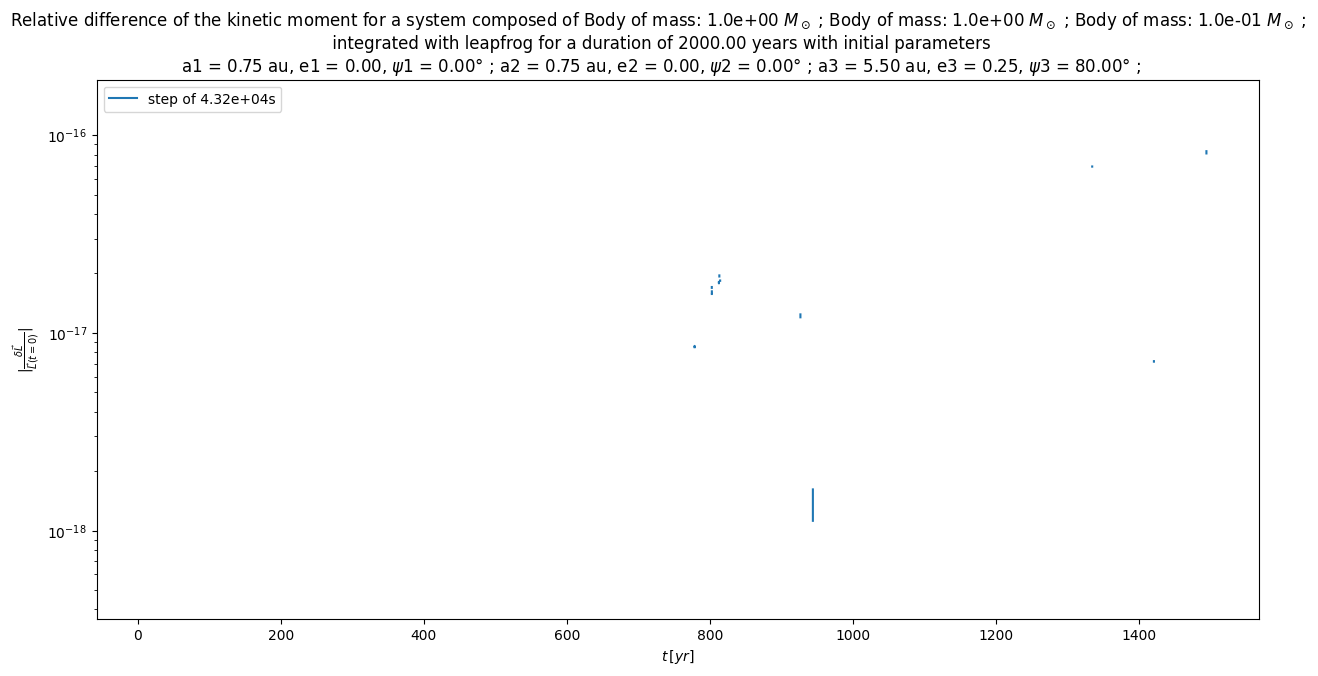
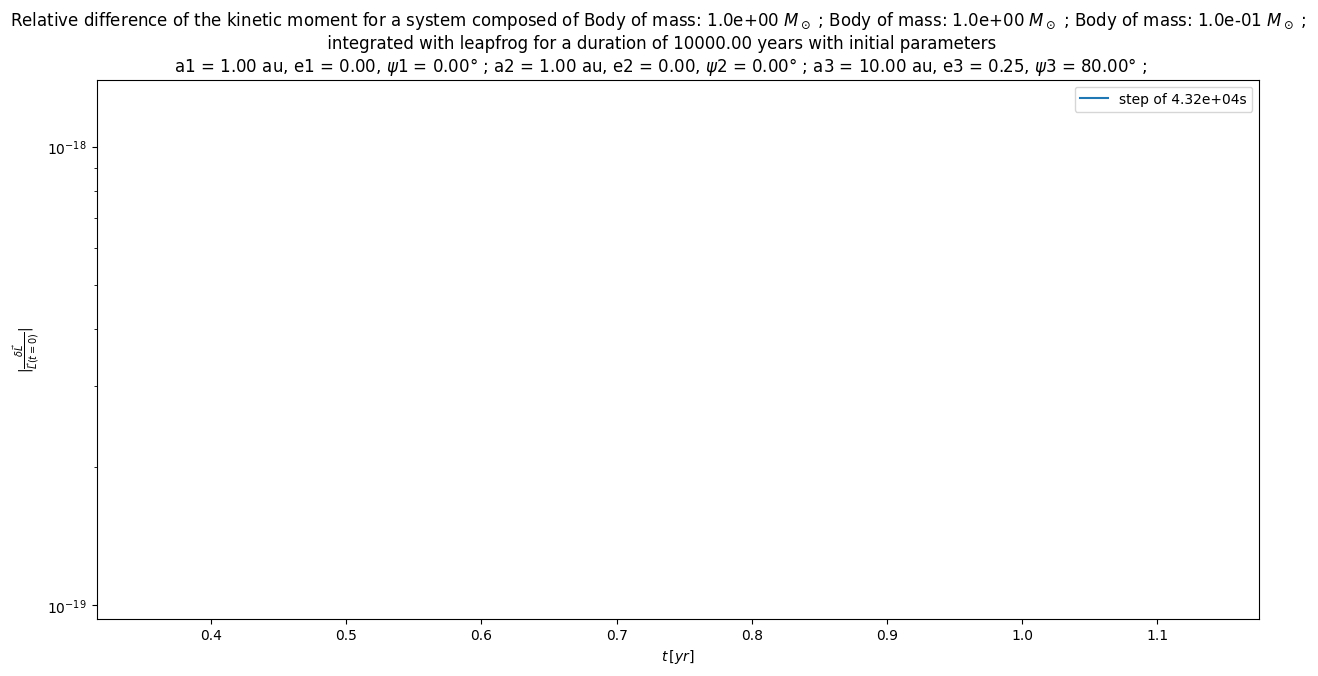
get results with right Energy formula

diff --git a/main.py b/main.py
@@ -12,7 +12,7 @@ from lib.units import *
 
 def main():
     #initialisation
-    m = np.array([1., 1., 0.],dtype=np.longdouble)*Ms#/Ms  # Masses in Solar mass
+    m = np.array([1., 1., 0.1],dtype=np.longdouble)*Ms#/Ms  # Masses in Solar mass
     a = np.array([1.00, 1.00, 10.0],dtype=np.longdouble)*au#/au   # Semi-major axis in astronomical units
     e = np.array([0., 0., 0.25],dtype=np.longdouble)   # Eccentricity
     psi = np.array([0., 0., 80.],dtype=np.longdouble)*np.pi/180.    # Inclination of the orbital plane in degrees
@@ -28,12 +28,12 @@ def main():
     v = np.array([v1, v2, v3],dtype=np.longdouble)
 
     #integration parameters
-    duration, step = 5000*yr, np.longdouble(1./2.*86400.) #integration time and step in seconds
+    duration, step = 10000*yr, np.longdouble(1.0/2.*86400.) #integration time and step in seconds
     integrator = "leapfrog"
     n_bodies = 3
     display = False
     gif = False
-    savename = "{0:d}bodies_massless_{1:s}".format(n_bodies, integrator)
+    savename = "{0:d}bodies_1_{1:s}".format(n_bodies, integrator)
     display_param = True
 
     #simulation start

diff --git a/lib/objects.py b/lib/objects.py
@@ -150,7 +150,7 @@ class System(Body):
             for otherbody in self.bodylist:
                 if body != otherbody:
                     rij = np.linalg.norm(body.q-otherbody.q)
-                    W = W - Ga*otherbody.m/(body.m+otherbody.m)*body.m**2/rij
+                    W = W - Ga*otherbody.m*body.m/(2.*rij)
         E = T + W
         return E
 
@@ -171,7 +171,7 @@ class System(Body):
             for otherbody in self.bodylist:
                 if body != otherbody:
                     rij = np.linalg.norm(body.q-otherbody.q)
-                    W = W - Ga*otherbody.m/(body.m+otherbody.m)*body.m**2/rij
+                    W = W - Ga*otherbody.m*body.m/(2.*rij)
         E = T + W
         return E
 
